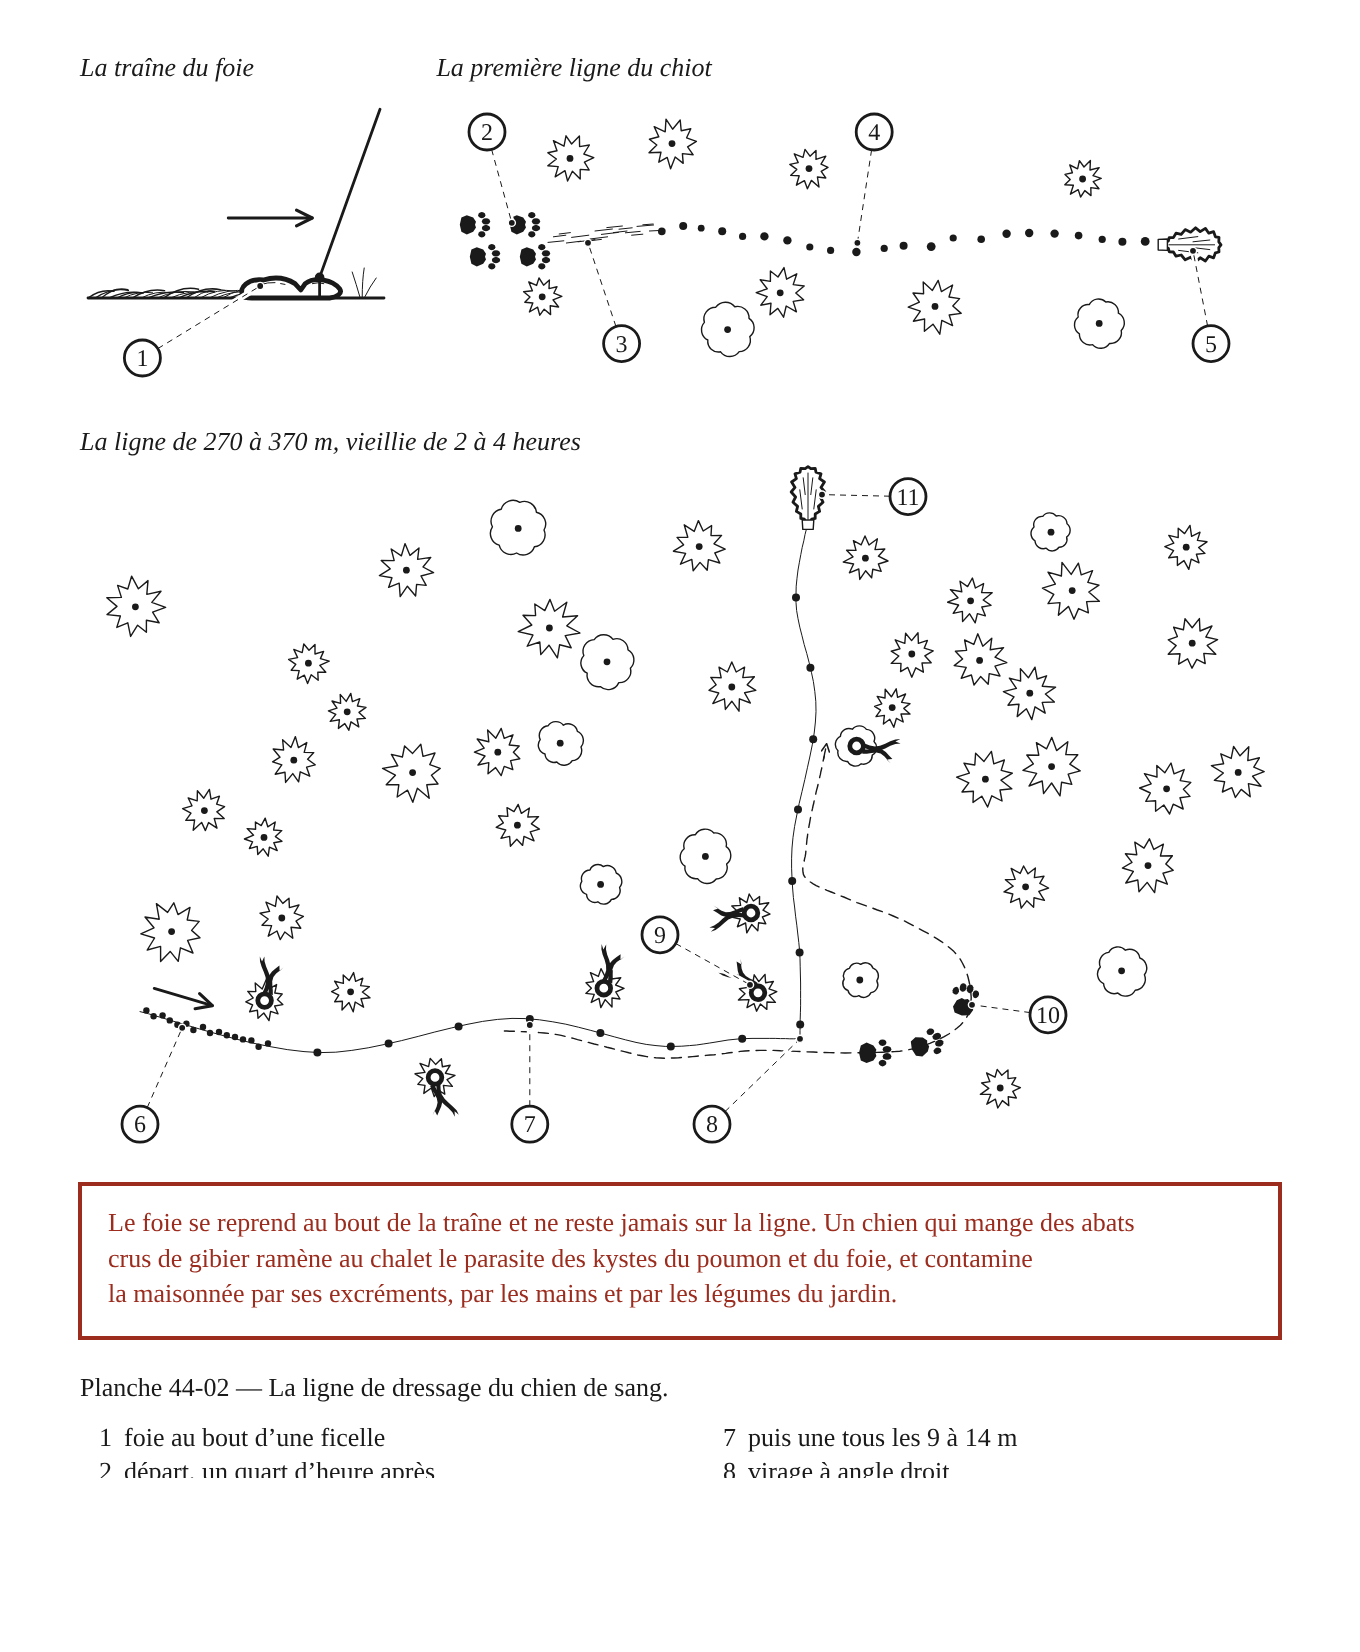
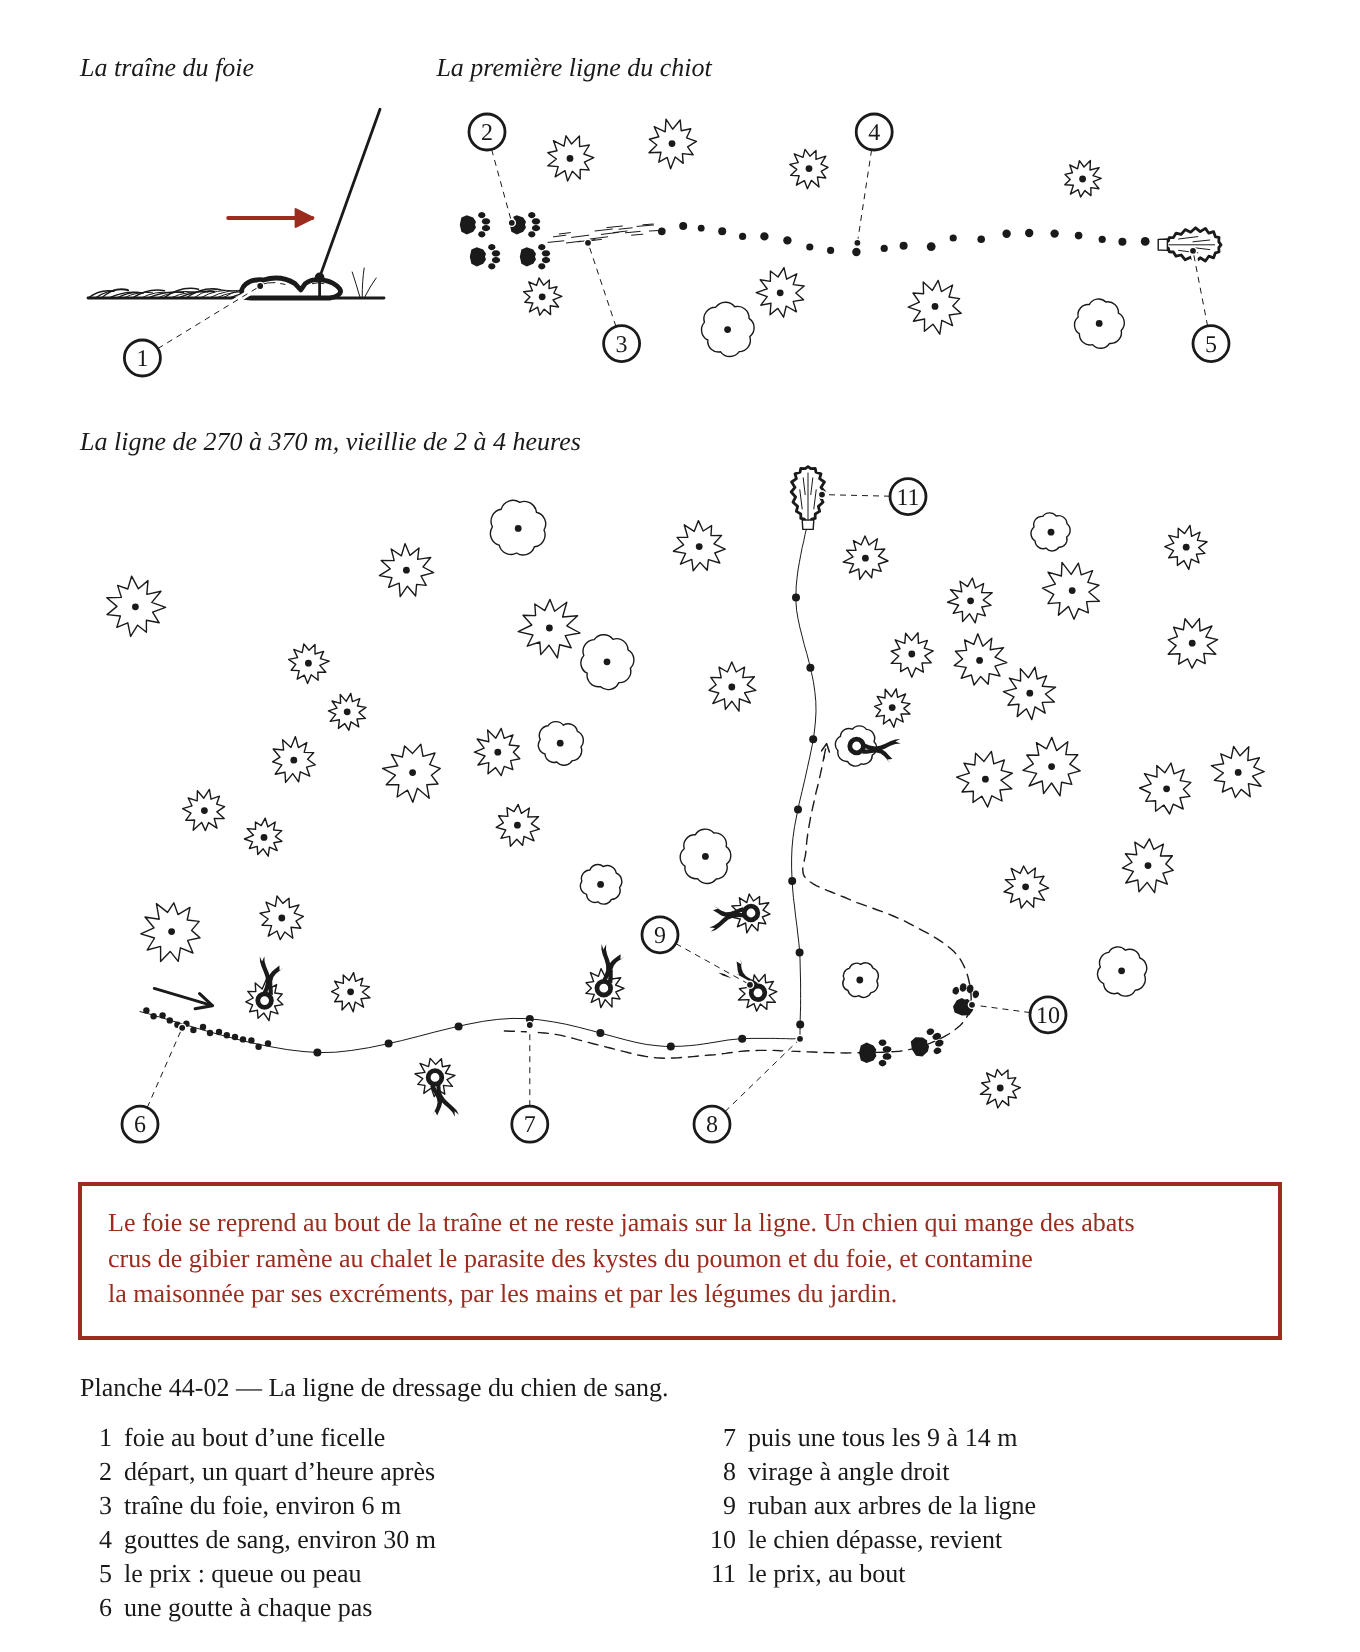
Charte : lot 2, paquet 2 (7 planches)
Claude-Session: https://claude.ai/code/session_014xDY5FLxFXDJt3nYAYznSZ

Changed region(s): [[0.0926, 0.8953, 0.3088, 0.9879], [0.525, 0.8953, 0.7412, 0.957], [0.2162, 0.1235, 0.2471, 0.1544]]

diff --git a/images/planches-src/62-13.js b/images/planches-src/62-13.js
@@ -229,7 +229,7 @@ module.exports = (h) => {
           const p = placeA(z), T = q => q.map(p.T);
           return [
             C.dessiner(h, p, {
-              id: 'a', loin: 'fin', fondOs: false,
+              id: 'a', loin: 'gris', fondOs: false,
               os: ['T8', 'T9', 'T10', 'T11', 'T12', 'T13', 'L1', 'L2', 'L3', 'L4', 'L5', 'L6', 'sacrum',
                 'cote8', 'cote9', 'cote10', 'cote11', 'cote12', 'cote13', 'sternum', 'bassin', 'femur', 'rotule'],
               osForts: ['cote13', 'bassin'],
@@ -239,7 +239,8 @@ module.exports = (h) => {
             `<path d="${dD(T(ATTACHE_A), false)}" ${halo(3.4)}/>`,
             `<path d="${dD(T(ATTACHE_A), false)}" ${trait(1.4, POINTILLE)}/>`,
             `<path d="${dD(T(COUTURE_FILET), false)}" ${halo(3.4)}/>`,
-            h.fleche(dD(T(COUTURE_FILET), false), trait(1.4, POINTILLE)),   // la couture, fléchée des côtes vers la hanche
+            // la charte : le trait du couteau, des côtes vers la hanche, est le geste de la vue, en rouge
+            h.geste(dD(T(COUTURE_FILET), false)),
           ].join('\n');
         },
         renvois: z => {
@@ -261,8 +262,8 @@ module.exports = (h) => {
           const dbl = (f, poly) => [f(poly), f(miroir(poly))];
           const out = [];
           out.push(`<defs>${motifs('b')}<clipPath id="b-diaph"><path d="${dD(T(DIAPH_L), true)}" fill="${BLANC}"/></clipPath></defs>`);
-          // le fond
-          out.push(`<path d="${dD(T(POURTOUR), true)}" fill="${BLANC}" stroke="none"/>`);
+          // le fond. La charte : le fond de la cavité, derrière le diaphragme, en gris loin
+          out.push(`<path d="${dD(T(POURTOUR), true)}" fill="#E6E6E6" stroke="none"/>`);
           // le plafond : corps des lombaires, petits psoas, filets
           CORPS_L.forEach(c => out.push(`<path d="${dD(T(c), true)}" ${plein(BLANC, 0.7)}/>`));
           dbl(q => out.push(`<path d="${dD(T(q), true)}" ${plein(BLANC, 0.7)}/>`), MINEUR_R);
@@ -350,7 +351,7 @@ module.exports = (h) => {
           out.push(`<path d="${dD(T(TRAIT_ONGLET), false)}" ${halo(3.4)}/>`);
           out.push(`<path d="${dD(T(TRAIT_ONGLET), false)}" ${trait(1.4, POINTILLE)}/>`);
           out.push(`<path d="${dD(T(LAME_ONGLET), false)}" ${halo(4)}/>`);
-          out.push(h.fleche(dD(T(LAME_ONGLET), false), trait(1.4)));
+          out.push(h.geste(dD(T(LAME_ONGLET), false)));   // la charte : le geste en rouge
           // l'onglet ouvert, le tissu du centre
           out.push(`<path d="${dD(T(ONGLET_OUVERT), true)}" fill="${BLANC}" stroke="none"/>`);
           out.push(`<path d="${dD(T(ONGLET_OUVERT), true)}" ${trameOnglet('d')}/>`);

diff --git a/.claude/skills/planches/scripts/mains/profil.js b/.claude/skills/planches/scripts/mains/profil.js
@@ -264,10 +264,16 @@ function raccords(sq, vue, M) {
   for (let i = 0; i < DOIGTS.length - 1; i++) for (const [t, r] of [[DOIGTS[i], DOIGTS[i + 1]], [DOIGTS[i + 1], DOIGTS[i]]]) {
     const ft = pl(t), fr = pl(r);
     if (ft === null || fr === null || ft > 45 || fr < 140) continue;
-    const S = sq.segments[t + '.p1'];
-    // le coin : sous la racine du doigt tendu, côté paume, un peu en avant de la jointure
-    const c = [0, 1, 2].map(j => S.de[j] - S.n[j] * 10 * k + S.u[j] * 6 * k);
-    out.push({ c: pr(c), zone: 22 * k, r: 7 * k });
+    // le coin : là où la ligne de la pulpe du doigt tendu (P1) croise la ligne du dos de la P1 repliée, dans le
+    // plan de la vue ; l'index qui s'abaisse (appui) le fait glisser le long du dos du replié
+    const S = sq.segments[t + '.p1'], R = sq.segments[r + '.p1'];
+    const a = pr([0, 1, 2].map(j => S.de[j] - S.n[j] * INDEX.p1[0][2] * K[t] * k)), da = pr(S.u);
+    const b = pr([0, 1, 2].map(j => R.de[j] + R.n[j] * INDEX.p1[1][1] * K[r] * k)), db = pr(R.u);
+    const det = da[0] * db[1] - da[1] * db[0];
+    if (Math.abs(det) < 0.2 * Math.hypot(...da) * Math.hypot(...db)) continue;   // presque parallèles : pas de coin
+    const s = ((b[0] - a[0]) * db[1] - (b[1] - a[1]) * db[0]) / det;
+    if (s < -5 * k || s > 40 * k) continue;                                      // le coin hors de la racine
+    out.push({ c: [a[0] + da[0] * s, a[1] + da[1] * s], zone: 22 * k, r: 7 * k });
   }
   return out;
 }

diff --git a/images/planches-src/44-02.js b/images/planches-src/44-02.js
@@ -1,6 +1,9 @@
 // Planche 44-02 — la ligne de dressage du chien de sang (chapitre 44, « Faire un chien de sang
 // avec le chien du chalet », étapes 1 à 4). En plan : la traîne de foie, les gouttes, le prix au
 // bout, le virage à angle droit, les rubans aux arbres. Aucun chiffre qui ne soit pas au chapitre.
+// La charte : pas de gris (deux vues sont des plans à plat, et le foie est trop petit pour une face
+// à l'ombre). Le rouge : le foie qu'on traîne (le geste). La flèche du sens de la ligne et le trajet
+// du chien restent noirs : ce ne sont pas des gestes.
 module.exports = (h) => {
   const f = v => +v.toFixed(1);
   const blanc = a => a.replace('fill="none"', 'fill="#ffffff"');
@@ -205,7 +208,7 @@ module.exports = (h) => {
           out.push(h.path(`M${X(19)},${Y(11.5)} L${f(z.l - 6)},${f(z.h * 0.06)}`, h.a.arete));
           // le sens de la traîne
           out.push(h.path(`M${f(x - 30)},${f(g - 40)} L${f(x + 8)},${f(g - 40)}`, halo));
-          out.push(h.fleche(`M${f(x - 32)},${f(g - 40)} L${f(x + 10)},${f(g - 40)}`, h.a.arete));
+          out.push(h.geste(`M${f(x - 32)},${f(g - 40)} L${f(x + 10)},${f(g - 40)}`));
           return out.join('\n');
         },
         renvois: z => [

diff --git a/images/planches-src/55-03.js b/images/planches-src/55-03.js
@@ -192,8 +192,11 @@ module.exports = (h) => {
             h.chemin(P(lisse([[-4, 84], [-14, 120], [-12, 180]])), h.a.detail),
             // le fourreau est un tube : son côté droit, à l'ombre (sous le repli, au-dessus des rabats)
             (() => {
-              const bord = lisse([[27, 220], [32, 232], [34, 280], [34, 330], [32, 368]]).filter(([, y]) => y >= 233 && y <= 356);
-              return h.chemin(P([...bord, ...bord.slice().reverse().map(([x, y]) => [x * 0.6, y])]), h.a.ombre, true);
+              // le bord droit du fourreau, du repli jusqu'au bas ; le haut suit le dessous du repli
+              const bord = lisse([[0, 221], [27, 220], [32, 232], [34, 280], [34, 330], [32, 368], [0, 372]]).filter(([x, y]) => y >= 229 && x > 1);
+              const sousRepli = x => [x, 226 + 5 * Math.sqrt(Math.max(0, 1 - (x / 30) ** 2))];
+              const x0 = bord[0][0], arc = [0.6, 0.7, 0.8, 0.9, 1].map(k => sousRepli(x0 * k));
+              return h.chemin(P([...arc, ...bord, ...bord.slice().reverse().map(([x, y]) => [x * 0.6, y])]), h.a.ombre, true);
             })(),
             // le repli : la peau tourne sur elle-même
             h.ellipse(...T([0, 226]), 30 * s, 5 * s, h.a.arete),

diff --git a/.claude/skills/planches/scripts/mains/prises.js b/.claude/skills/planches/scripts/mains/prises.js
@@ -652,6 +652,7 @@ function pouceSurPhalanges(S, segsD, noms, o = {}) {
     let pen = 0;
     for (const ob of obstD) for (let i = 1; i < 3; i++) pen += Math.max(0, -ecart(seg[i], ob).g - 0.3);
     pen += Math.max(0, -ecart(seg[2], S.paume).g);
+    if (o.boutMax !== undefined) pen += 0.1 * Math.max(0, pp.ch.P[3][2] - o.boutMax);   // le bout ne dépasse pas le bloc
     return err * err + (o.poidsIP !== undefined ? o.poidsIP : 0.35) * eip * eip + 60 * face * face + 400 * pen * pen +
       0.01 * (x[2] - 0.3 * x[0]) ** 2 + 0.01 * Math.max(0, x[4] - 60) ** 2;
   };
